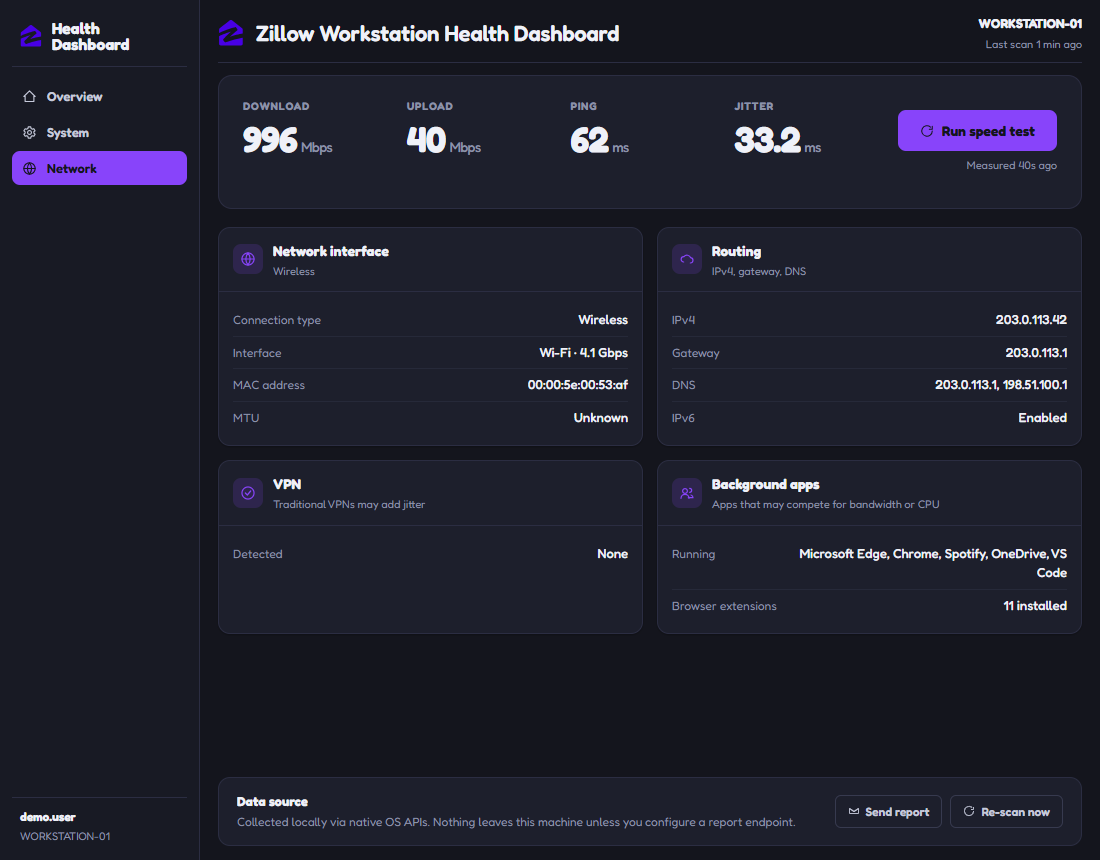
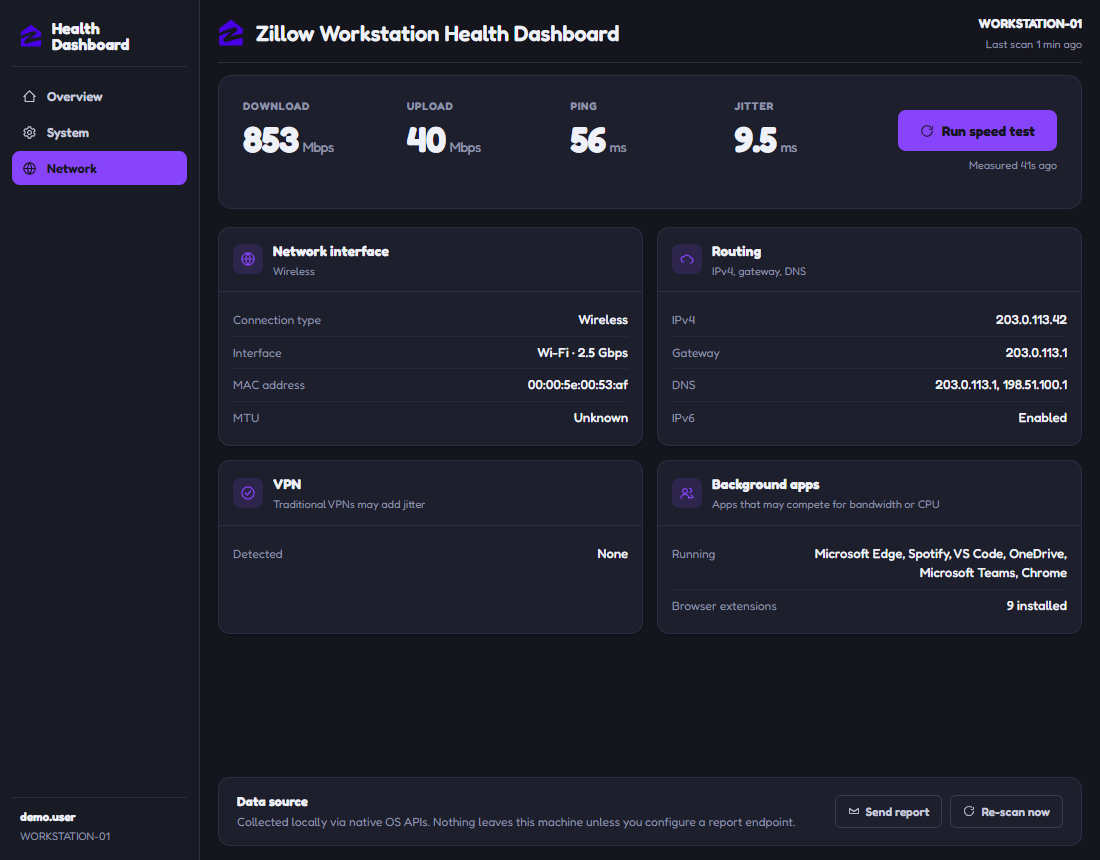
Lead the antivirus row with whether the product is running
The row showed the version and signature age when it had them, and fell
back to Active/Inactive only when it had neither. So a product whose
scanner is stopped but whose signatures are current — the ordinary
state of ClamAV on Debian, where the package installs without its
daemon — read as "Virus Definitions 2 hours" with nothing to say the
machine is unprotected. That is the one thing this card exists to tell
someone.

The state comes first now: Active, Inactive, or Status unknown when the
process list could not be read. Version and signature age follow it.

Screenshots regenerated. The System tab's antivirus row reads "Active"
alone, because this machine's product reports a definitions timestamp
several hours in the future, which the scan now declines to age.

diff --git a/app/renderer/helper-app.jsx b/app/renderer/helper-app.jsx
@@ -303,8 +303,13 @@ function SystemScreen() {
         )}
         {facts.antivirus.products.map((p, i) => (
           <KV key={i} k={p.name} v={
-            [p.version ? `v${p.version}` : null, p.definitionsAge ? `Virus Definitions ${p.definitionsAge}` : null]
-              .filter(Boolean).join(" · ") || (p.running ? "Active" : "Inactive")
+            // Whether it is actually running leads: a product with fresh
+            // definitions and a stopped daemon is not protecting anything,
+            // and this card is where someone would look to find that out.
+            [p.running == null ? "Status unknown" : p.running ? "Active" : "Inactive",
+             p.version ? `v${p.version}` : null,
+             p.definitionsAge ? `Virus Definitions ${p.definitionsAge}` : null]
+              .filter(Boolean).join(" · ")
           } />
         ))}
       </Card>
